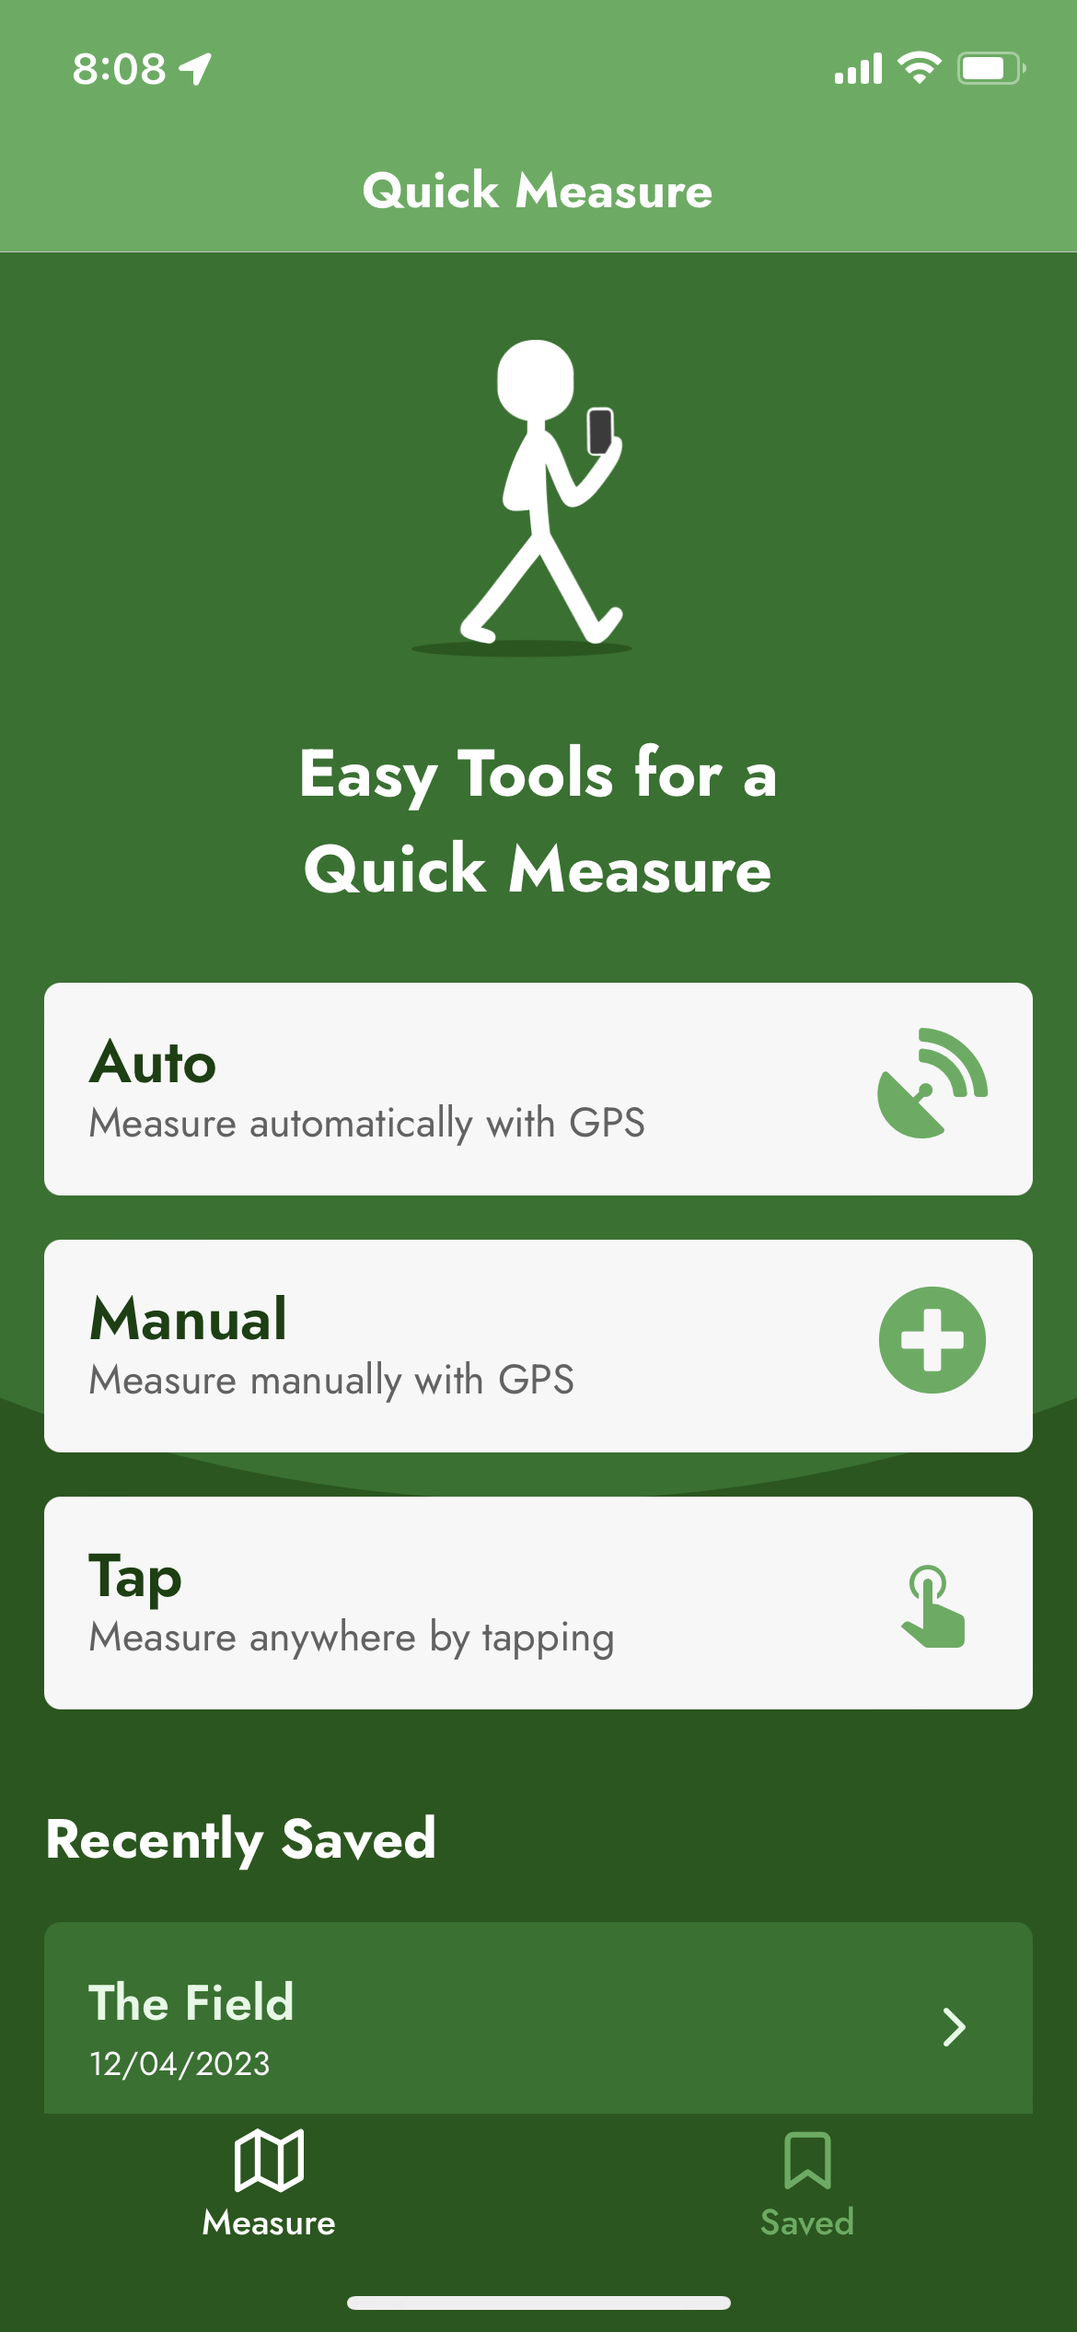
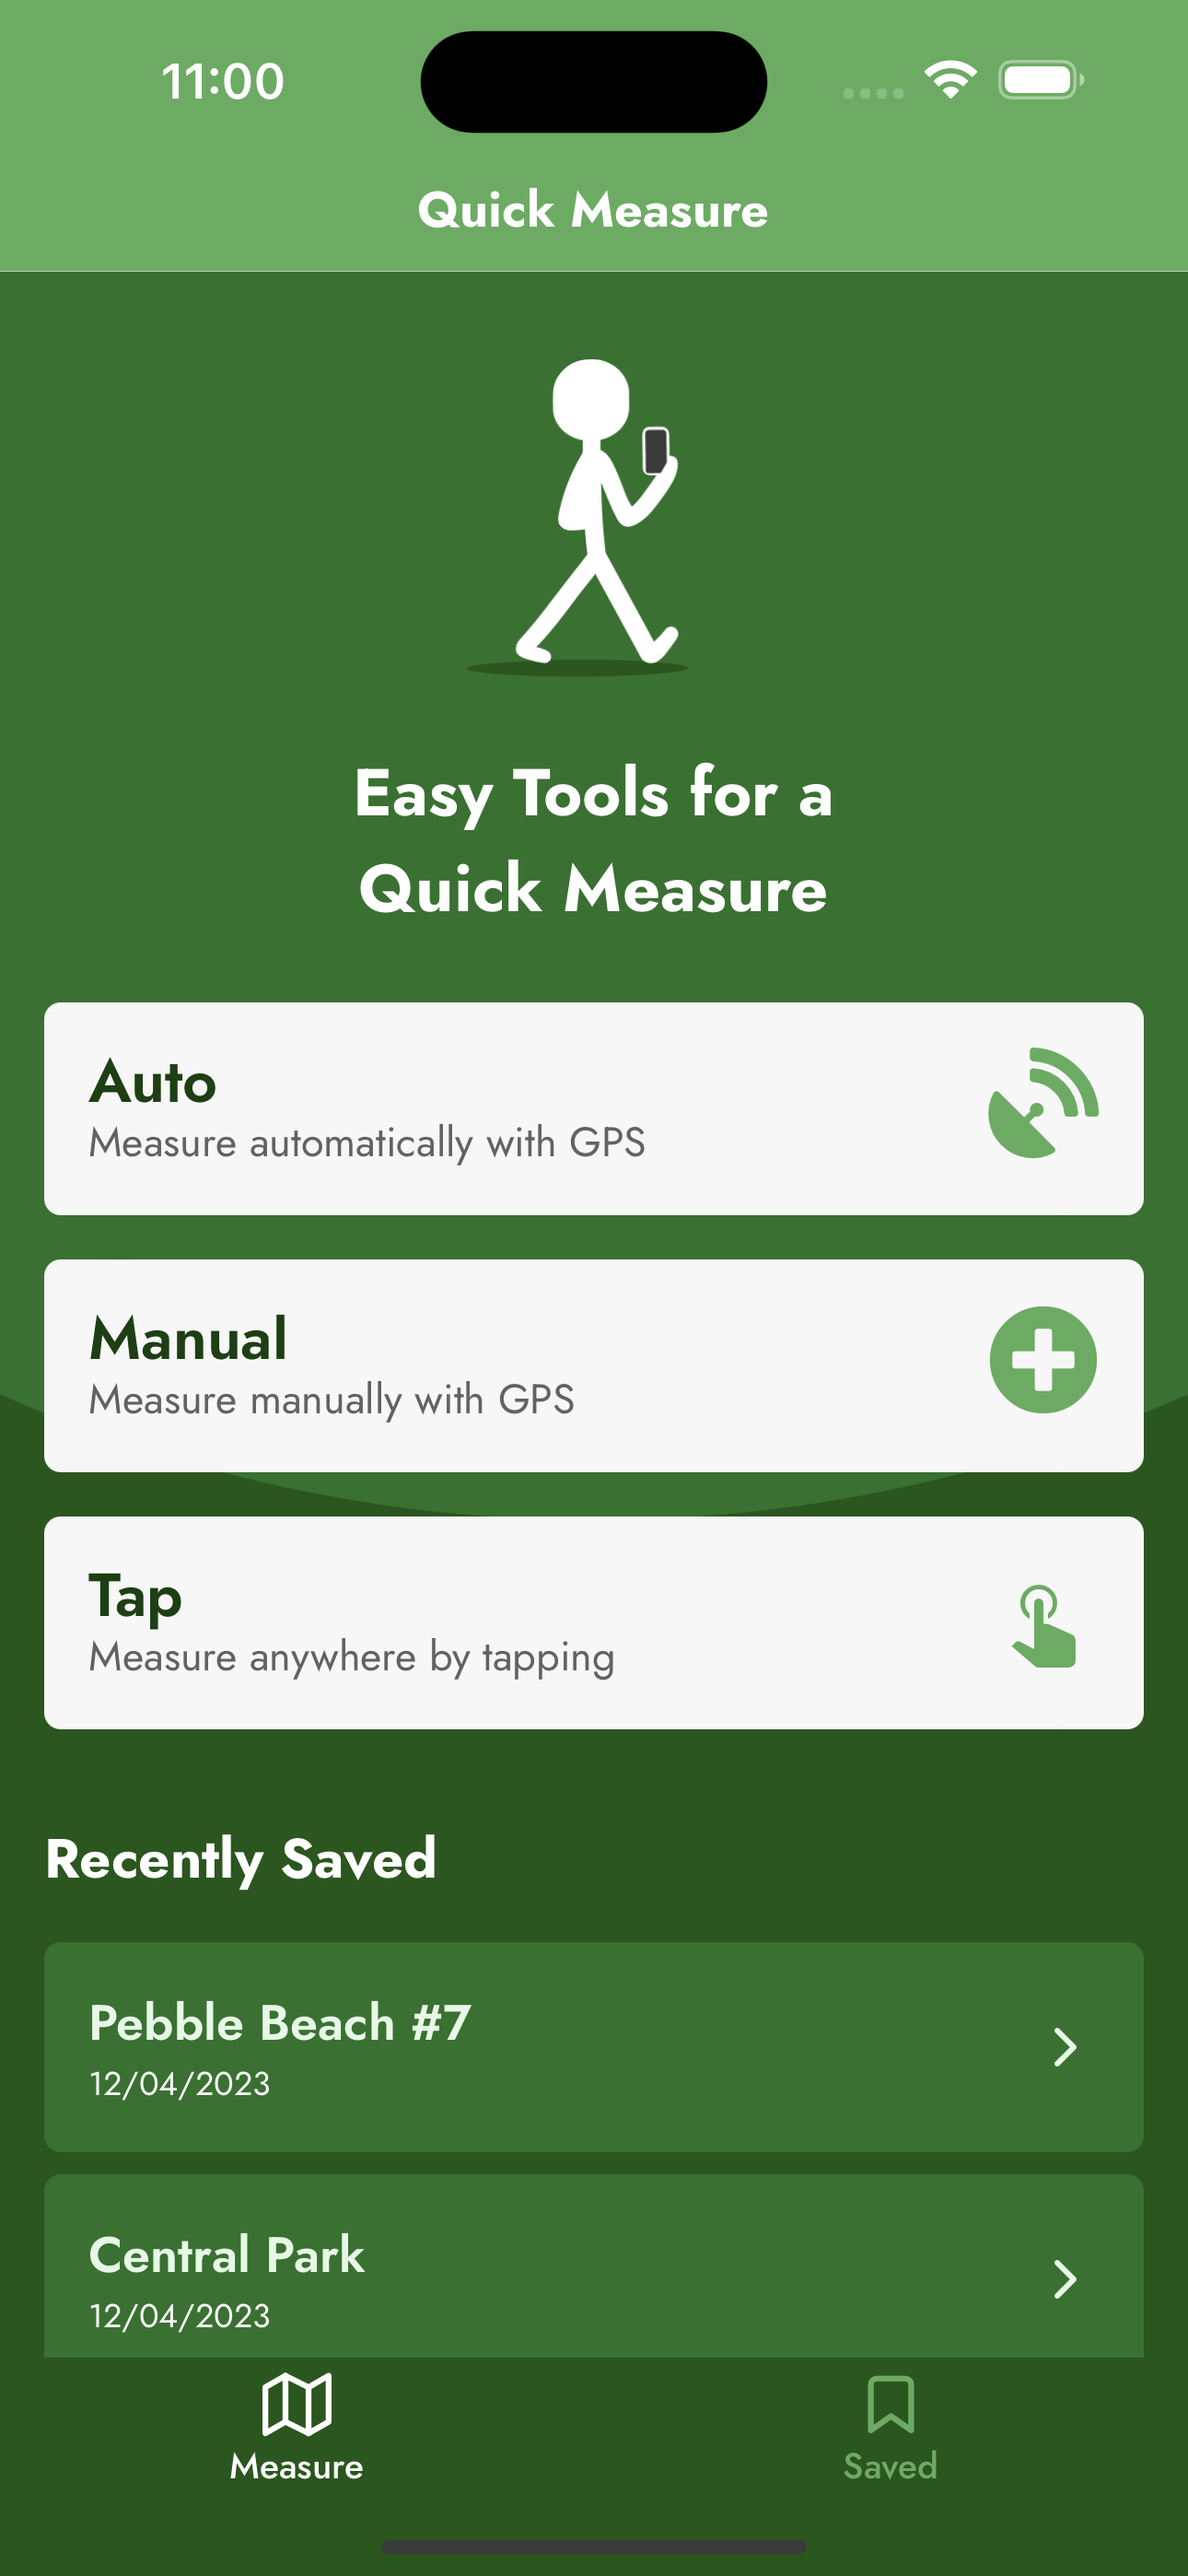
updated readme visuals

diff --git a/app/(tabs)/MeasureTab.jsx b/app/(tabs)/MeasureTab.jsx
@@ -7,8 +7,8 @@ import { StatusBar } from 'expo-status-bar';
 import { useStorage } from '../../hooks';
 import { useCallback, useState } from 'react';
 
-// import { BannerAd, TestIds, BannerAdSize } from 'react-native-google-mobile-ads';
-// import { useState, useEffect } from 'react';
+import { BannerAd, TestIds, BannerAdSize } from 'react-native-google-mobile-ads';
+import { useEffect } from 'react';
 import { SafeAreaView } from 'react-native';
 
 export default function App() {
@@ -55,17 +55,19 @@ export default function App() {
   return (
     <SafeAreaView className="bg-green-9 relative flex-1 items-center w-full h-full">
       <StatusBar style="light" />
-      {/* <BannerAd 
-        unitId={TestIds.BANNER}
-        size={BannerAdSize.SMALL_BANNER}
-        requestOptions={{
-          requestNonPersonalizedAdsOnly: true,
-        }}
-      /> */}
 
-      <ScrollView className="w-full h-full pt-8 absolute" contentContainerStyle={{ alignItems: 'center'}} alwaysBounceVertical={false}>
+      <ScrollView className="w-full h-full absolute" contentContainerStyle={{ alignItems: 'center'}} alwaysBounceVertical={false}>
+
         <View className="bg-green-8 w-[1060px] aspect-square absolute -top-[640px] rounded-full"></View>
-        <View className="items-center justify-start mb-6" style={{gap: 24}}>
+          {/* this ad works */}
+          {/* <BannerAd 
+          unitId={TestIds.BANNER}
+          size={BannerAdSize.BANNER}
+          requestOptions={{
+            requestNonPersonalizedAdsOnly: true,
+          }}/> */}
+
+        <View className="items-center justify-start mb-6 mt-8" style={{gap: 24}}>
           <Image source={walkingIcon} style={{height: 115, width: 80, marginRight: 12}}/>
           <Text className="text-white text-center" style={[bold, {fontSize: 24, maxWidth: 200}]}>Easy Tools for a Quick Measure</Text>
         </View>
@@ -85,40 +87,49 @@ export default function App() {
               {Icon(item.icon)}
             </Pressable>
           ))}
-        
-          {savedMaps && (
-            <View className="w-full mt-4 pb-14">
-              <Text className="text-white mb-4" style={[bold, {fontSize: 20}]}>Recently Saved</Text>
-              
-              {savedMaps.map((map, index) => (
+          
+          <View className="w-full mt-4 pb-14">
+            {savedMaps && (
+              <>
+                <Text className="text-white mb-4" style={[bold, {fontSize: 20}]}>Recently Saved</Text>
+                
+                {savedMaps.map((map, index) => (
+                  <Pressable 
+                    className="p-4 bg-green-8 rounded-md mb-2 flex-row justify-between items-center active:bg-green-7" 
+                    onPress={() => router.push({ pathname: '/SavedMapScreen', params: { map: JSON.stringify(map) }})}
+                    key={index}>
+                    <View>
+                      <Text className="text-green-1" style={[semibold, {fontSize: 18}]}>{map.mapName}</Text>
+                      <Text className="text-gray-1" style={[regular, {fontSize: 12}]}>
+                        {map.dateCreated.split("T")[0].split("-")[1]}/
+                        {map.dateCreated.split("T")[0].split("-")[2]}/
+                        {map.dateCreated.split("T")[0].split("-")[0]}
+                      </Text>
+                    </View>
+                    <Feather name="chevron-right" size={24} color="#E7F8E6"/>
+                  </Pressable>
+                ))}
+
                 <Pressable 
-                  className="p-4 bg-green-8 rounded-md mb-2 flex-row justify-between items-center active:bg-green-7" 
-                  onPress={() => router.push({ pathname: '/SavedMapScreen', params: { map: JSON.stringify(map) }})}
-                  key={index}>
-                  <View>
-                    <Text className="text-green-1" style={[semibold, {fontSize: 18}]}>{map.mapName}</Text>
-                    <Text className="text-gray-1" style={[regular, {fontSize: 12}]}>
-                      {map.dateCreated.split("T")[0].split("-")[1]}/
-                      {map.dateCreated.split("T")[0].split("-")[2]}/
-                      {map.dateCreated.split("T")[0].split("-")[0]}
-                    </Text>
-                  </View>
-                  <Feather name="chevron-right" size={24} color="#E7F8E6"/>
+                  className="w-full flex-row justify-center items-center mt-2 mb-4 active:opacity-80" 
+                  style={{gap: 8}}
+                  onPress={() => router.replace('/SavedTab')}>
+                  <Text className="text-green-1" style={regular}>See all saved maps</Text>
+                  <Feather name="chevron-right" size={16} color="#E7F8E6"/>
                 </Pressable>
-              ))}
+              </>
+            )}
 
-              <Pressable 
-                className="w-full flex-row justify-center items-center mt-2 active:opacity-80" 
-                style={{gap: 8}}
-                onPress={() => router.replace('/SavedTab')}>
-                <Text className="text-green-1" style={regular}>See all saved maps</Text>
-                <Feather name="chevron-right" size={16} color="#E7F8E6"/>
-              </Pressable>
+            {/* this ad works */}
+            {/* <BannerAd 
+            unitId={TestIds.BANNER}
+            size={BannerAdSize.BANNER}
+            requestOptions={{
+              requestNonPersonalizedAdsOnly: true,
+            }}/> */}
 
-            </View>
-          )}
+          </View>
         </View>
-
         
 
       </ScrollView>

diff --git a/app/AutoMeasureScreen.jsx b/app/AutoMeasureScreen.jsx
@@ -1,4 +1,4 @@
-import { View, Alert, ActivityIndicator } from 'react-native';
+import { View, Alert, ActivityIndicator, StatusBar } from 'react-native';
 import { useEffect, useState, useRef } from 'react';
 import * as Location from "expo-location";
 import { getAreaOfPolygon, getPathLength } from 'geolib';
@@ -15,9 +15,9 @@ export default function AutoMeasure() {
 
   const [ region, setRegion ] = useState(null);
   const [ currentLocation, setCurrentLocation ] = useState(null);
-  const [ polygonCoordinates, setPolygonCoordinates ] = useState([])
-  const [ polygonArea, setPolygonArea ] = useState()
-  const [ polygonDistance, setPolygonDistance ] = useState()
+  const [ polygonCoordinates, setPolygonCoordinates ] = useState([{"latitude": 36.5613419495347, "longitude": -121.94035277951814}, {"latitude": 36.561320353528366, "longitude": -121.94032320403902}, {"latitude": 36.56130811577776, "longitude": -121.94028377005317}, {"latitude": 36.56130595617645, "longitude": -121.9402434398544}, {"latitude": 36.56132179324036, "longitude": -121.9402004209757}, {"latitude": 36.561342669390484, "longitude": -121.94016905302965}, {"latitude": 36.5613664249903, "longitude": -121.94013858133755}, {"latitude": 36.5614074573727, "longitude": -121.94010542096552}, {"latitude": 36.56144920958814, "longitude": -121.94008749641905}, {"latitude": 36.561477284348385, "longitude": -121.94006867565965}, {"latitude": 36.56151610406361, "longitude": -121.94007355852877}, {"latitude": 36.56155416509598, "longitude": -121.94008428736507}, {"latitude": 36.56158504476788, "longitude": -121.94008786363023}, {"latitude": 36.561629568951, "longitude": -121.94010663909374}, {"latitude": 36.56167193868202, "longitude": -121.9401173679301}, {"latitude": 36.56169348261525, "longitude": -121.94013703744969}, {"latitude": 36.56172077159969, "longitude": -121.94016922395866}, {"latitude": 36.56176242316126, "longitude": -121.94018799942219}, {"latitude": 36.56181341041146, "longitude": -121.94018352910098}, {"latitude": 36.561861525088375, "longitude": -121.94019246978431}, {"latitude": 36.56189455905772, "longitude": -121.94019425793734}, {"latitude": 36.56191035788623, "longitude": -121.94024253770074}, {"latitude": 36.561927592980126, "longitude": -121.94026578348547}, {"latitude": 36.56194985495973, "longitude": -121.94029707593839}, {"latitude": 36.561987915778445, "longitude": -121.9403355209215}, {"latitude": 36.562005150855036, "longitude": -121.94035429638508}, {"latitude": 36.562029567196, "longitude": -121.94038827104708}, {"latitude": 36.5620575741784, "longitude": -121.94042850418327}, {"latitude": 36.562097789325776, "longitude": -121.94045532627406}])
+  const [ polygonArea, setPolygonArea ] = useState(getAreaOfPolygon(polygonCoordinates))
+  const [ polygonDistance, setPolygonDistance ] = useState(getPathLength(polygonCoordinates))
   const [ isMeasuring, setIsMeasuring ] = useState(false)
   const [ mapType, setMapType ] = useState("")
   const [ areaVisible, setAreaVisible ] = useState(true)
@@ -98,6 +98,7 @@ export default function AutoMeasure() {
 
   return (
     <View className="flex-1 items-center justify-center">
+      <StatusBar style="dark" />
       {!currentLocation && (
         <ActivityIndicator size="small" color="#6DAB64" />
       )}

diff --git a/app/TapMeasureScreen.jsx b/app/TapMeasureScreen.jsx
@@ -1,4 +1,4 @@
-import { View, Alert, ActivityIndicator } from 'react-native';
+import { View, Alert, ActivityIndicator, StatusBar } from 'react-native';
 import { useEffect, useState, useRef } from 'react';
 import * as Location from "expo-location";
 import { getAreaOfPolygon, getPathLength, getCenterOfBounds } from 'geolib';
@@ -14,7 +14,7 @@ export default function TapMeasure() {
   const saveSheetRef = useRef();
 
   const [ region, setRegion ] = useState(null);
-  const [ polygonCoordinates, setPolygonCoordinates ] = useState([])
+  const [ polygonCoordinates, setPolygonCoordinates ] = useState([{"latitude": 40.76507834389219, "longitude": -73.97257207305711}, {"latitude": 40.76507842207806, "longitude": -73.97263471694518}, {"latitude": 40.76522142114563, "longitude": -73.97297091312403}, {"latitude": 40.765212491991, "longitude": -73.9733044264009}, {"latitude": 40.76476507759784, "longitude": -73.97360789171819}, {"latitude": 40.76473604139859, "longitude": -73.97369075704603}, {"latitude": 40.76791791241632, "longitude": -73.98120038289578}, {"latitude": 40.768079358691224, "longitude": -73.98118608011002}, {"latitude": 40.768318886080344, "longitude": -73.98126830869528}, {"latitude": 40.76850807781592, "longitude": -73.98142510110712}, {"latitude": 40.80027460355391, "longitude": -73.95824935657963}, {"latitude": 40.80029066002276, "longitude": -73.95803835272892}, {"latitude": 40.800398678286925, "longitude": -73.9578469072631}, {"latitude": 40.80040391922109, "longitude": -73.95778528670533}, {"latitude": 40.79699673591258, "longitude": -73.94973602781586}, {"latitude": 40.79677797274195, "longitude": -73.9496994391203}, {"latitude": 40.79659462142288, "longitude": -73.94955385545865}, {"latitude": 40.76507834389219, "longitude": -73.97257207305711}])
   const [ polygonArea, setPolygonArea ] = useState()
   const [ polygonDistance, setPolygonDistance ] = useState()
   const [ mapType, setMapType ] = useState("")
@@ -24,6 +24,8 @@ export default function TapMeasure() {
   const [ markersToDelete, setMarkersToDelete ] = useState([])
   const [ previousCoordinates, setPreviousCoordinates ] = useState([])
   const [ currentPreferences, setCurrentPreferences ] = useState(null)
+
+  console.log(polygonCoordinates)
 
   // check if location permission is granted
     // if so, set initial region as current location
@@ -97,6 +99,7 @@ export default function TapMeasure() {
 
   return (
     <View className="flex-1 items-center justify-center">
+      <StatusBar style="dark" />
       {!region && (
         <ActivityIndicator size="small" color="#6DAB64" />
       )}

diff --git a/app/ManualMeasureScreen.jsx b/app/ManualMeasureScreen.jsx
@@ -1,4 +1,4 @@
-import { View, Alert, ActivityIndicator } from 'react-native';
+import { View, Alert, ActivityIndicator, StatusBar } from 'react-native';
 import { useEffect, useState, useRef } from 'react';
 import * as Location from "expo-location";
 import { getAreaOfPolygon, getPathLength, getCenterOfBounds } from 'geolib';
@@ -112,6 +112,7 @@ export default function AutoMeasure() {
   return (
     <>
       <View className="flex-1 items-center justify-center">
+        <StatusBar style="dark" />
         {!currentLocation && (
           <ActivityIndicator size="small" color="#6DAB64" />
         )}

diff --git a/README.md b/README.md
@@ -17,8 +17,8 @@ Quick Measure is built with React Native, which is a cross-platform language. Ho
 <div style="display:flex; flex-direction:row; justify-content:justify-around; flex-wrap:wrap; gap:10px; border:#fff;">
   <img src="./assets/visuals/homepage-visual.png" alt="Visual of Quick Measure Homepage" width="200">
   <img src="./assets/visuals/auto-measure-visual.png" alt="Visual of Quick Measure Auto Measure" width="200">
-  <img src="./assets/visuals/manual-measure-visual.png" alt="Visual of Quick Measure Manual Measure" width="200">
   <img src="./assets/visuals/tap-to-measure-visual.png" alt="Visual of Quick Measure Tap to Measure" width="200">
+  <img src="./assets/visuals/save-bottom-sheet-visual.png" alt="Visual of Quick Measure Saving Bottom Sheet" width="200">
   <img src="./assets/visuals/saved-measurements-visual.png" alt="Visual of Quick Measure Saved Measurements" width="200">
 </div>
 
